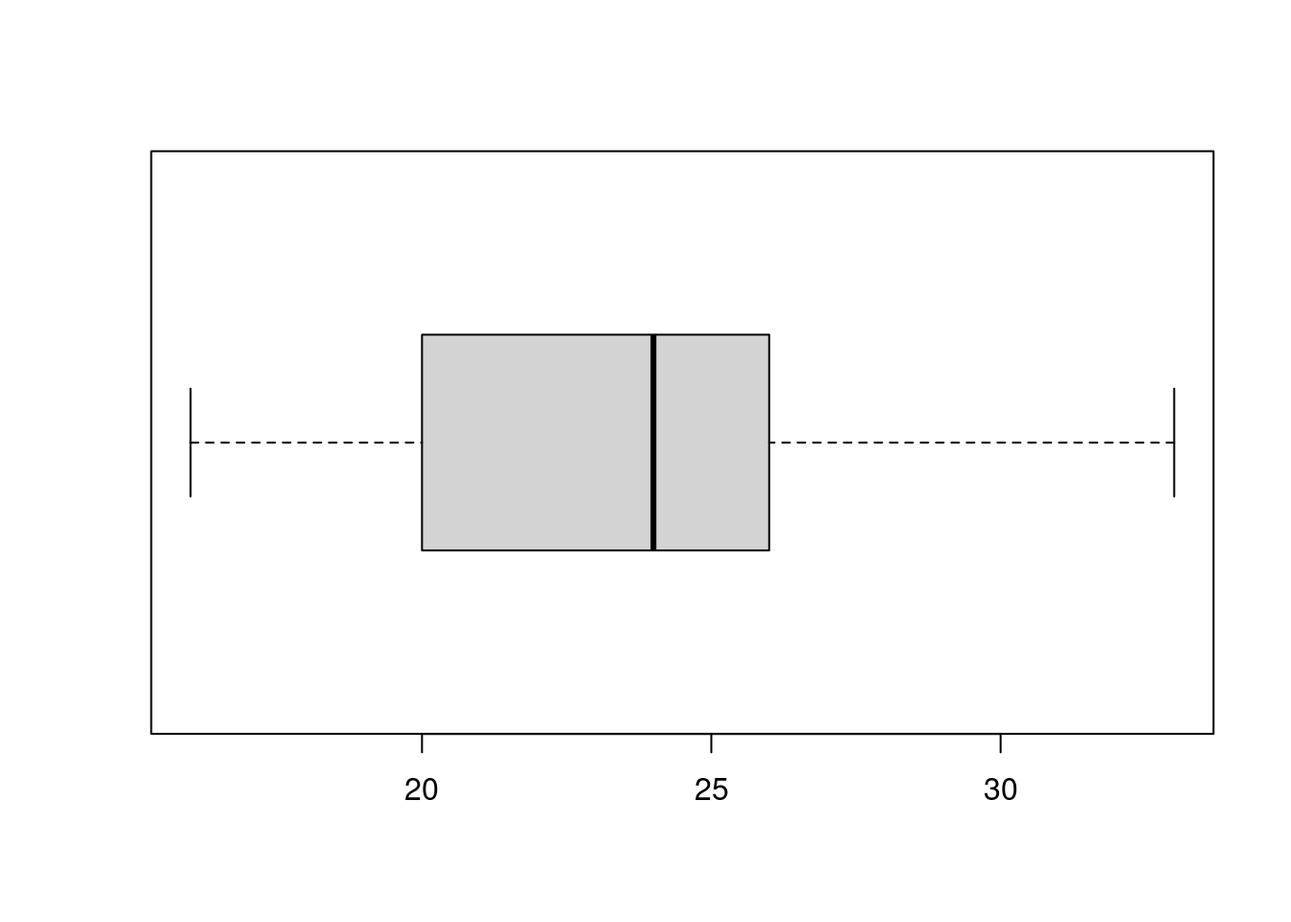
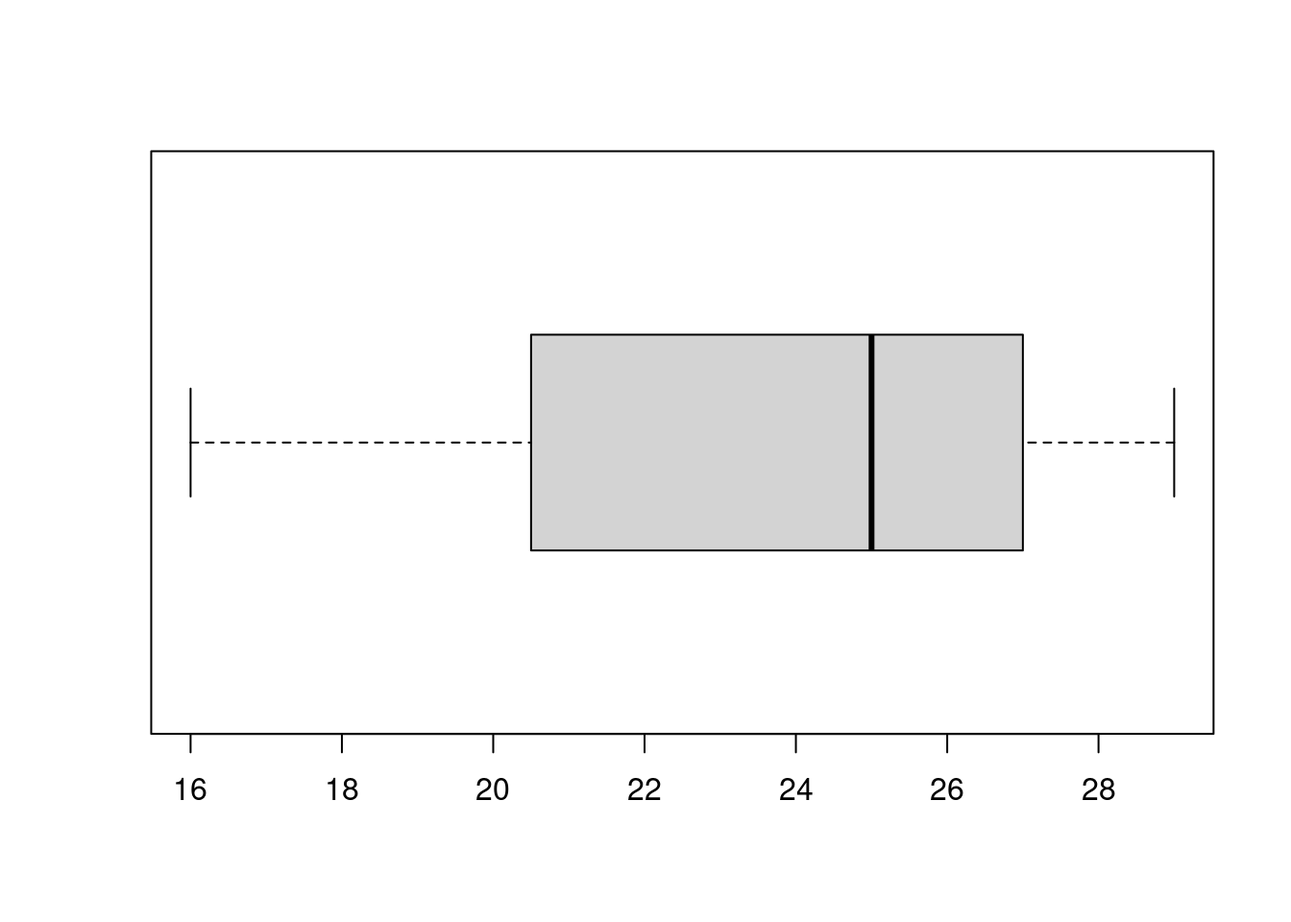
Updates to Chapter 3.

diff --git a/_book/what-is-statistics.html b/_book/what-is-statistics.html
@@ -24,7 +24,7 @@
 <meta name="author" content="Virgil U Pierce" />
 
 
-<meta name="date" content="2021-05-11" />
+<meta name="date" content="2021-05-13" />
 
   <meta name="viewport" content="width=device-width, initial-scale=1" />
   <meta name="apple-mobile-web-app-capable" content="yes" />
@@ -179,6 +179,23 @@ code span.wa { color: #60a0b0; font-weight: bold; font-style: italic; } /* Warni
 </ul></li>
 <li class="chapter" data-level="3.4" data-path="what-is-statistics.html"><a href="what-is-statistics.html#exploratory-versus-confirmatory-analysis"><i class="fa fa-check"></i><b>3.4</b> Exploratory versus Confirmatory Analysis</a></li>
 <li class="chapter" data-level="3.5" data-path="what-is-statistics.html"><a href="what-is-statistics.html#correlations-and-predictions"><i class="fa fa-check"></i><b>3.5</b> Correlations and Predictions</a></li>
+<li class="chapter" data-level="3.6" data-path="what-is-statistics.html"><a href="what-is-statistics.html#motivating-questions"><i class="fa fa-check"></i><b>3.6</b> Motivating Questions</a>
+<ul>
+<li class="chapter" data-level="3.6.1" data-path="what-is-statistics.html"><a href="what-is-statistics.html#engine-failure"><i class="fa fa-check"></i><b>3.6.1</b> Engine Failure</a></li>
+<li class="chapter" data-level="3.6.2" data-path="what-is-statistics.html"><a href="what-is-statistics.html#engine-failure-2"><i class="fa fa-check"></i><b>3.6.2</b> Engine Failure 2</a></li>
+<li class="chapter" data-level="3.6.3" data-path="what-is-statistics.html"><a href="what-is-statistics.html#many-engines-failure"><i class="fa fa-check"></i><b>3.6.3</b> Many Engines Failure</a></li>
+<li class="chapter" data-level="3.6.4" data-path="what-is-statistics.html"><a href="what-is-statistics.html#duplicate-birthdays"><i class="fa fa-check"></i><b>3.6.4</b> Duplicate Birthdays</a></li>
+<li class="chapter" data-level="3.6.5" data-path="what-is-statistics.html"><a href="what-is-statistics.html#birthday-tickets"><i class="fa fa-check"></i><b>3.6.5</b> Birthday Tickets</a></li>
+<li class="chapter" data-level="3.6.6" data-path="what-is-statistics.html"><a href="what-is-statistics.html#accidents"><i class="fa fa-check"></i><b>3.6.6</b> Accidents</a></li>
+<li class="chapter" data-level="3.6.7" data-path="what-is-statistics.html"><a href="what-is-statistics.html#budgets"><i class="fa fa-check"></i><b>3.6.7</b> Budgets</a></li>
+<li class="chapter" data-level="3.6.8" data-path="what-is-statistics.html"><a href="what-is-statistics.html#radioactive-decay"><i class="fa fa-check"></i><b>3.6.8</b> Radioactive Decay</a></li>
+<li class="chapter" data-level="3.6.9" data-path="what-is-statistics.html"><a href="what-is-statistics.html#cherry-blossoms"><i class="fa fa-check"></i><b>3.6.9</b> Cherry Blossoms</a></li>
+<li class="chapter" data-level="3.6.10" data-path="what-is-statistics.html"><a href="what-is-statistics.html#detecting-fraud-in-thc-labs"><i class="fa fa-check"></i><b>3.6.10</b> Detecting Fraud in THC Labs</a></li>
+<li class="chapter" data-level="3.6.11" data-path="what-is-statistics.html"><a href="what-is-statistics.html#how-many-locomotives"><i class="fa fa-check"></i><b>3.6.11</b> How Many Locomotives</a></li>
+<li class="chapter" data-level="3.6.12" data-path="what-is-statistics.html"><a href="what-is-statistics.html#median-house-prices"><i class="fa fa-check"></i><b>3.6.12</b> Median House Prices</a></li>
+<li class="chapter" data-level="3.6.13" data-path="what-is-statistics.html"><a href="what-is-statistics.html#healthcare-costs"><i class="fa fa-check"></i><b>3.6.13</b> Healthcare Costs</a></li>
+<li class="chapter" data-level="3.6.14" data-path="what-is-statistics.html"><a href="what-is-statistics.html#what-questions-do-you-have"><i class="fa fa-check"></i><b>3.6.14</b> What Questions Do You Have?</a></li>
+</ul></li>
 </ul></li>
 </ul>
 
@@ -232,26 +249,22 @@ code span.wa { color: #60a0b0; font-weight: bold; font-style: italic; } /* Warni
 <li>Cocalc provides an online interface that lets you issue R commands. It also includes a markdown language so you will be able to use it to prepare the documents for class. You can reach it here: <a href="https://cocalc.com/" class="uri">https://cocalc.com/</a> you will need to create an account.</li>
 <li>The university Apporto virtual machine: <a href="https://unco.apporto.com" class="uri">https://unco.apporto.com</a> has R studio installed. You can log in to it from any browser.</li>
 </ol>
-<p>If at all possible I would recomend 1. as with the software installed locally you will not need to be using your internet connection. However students using 2. in my classes have reported that it works well for them.</p>
+<p>If at all possible I would recommend 1. as with the software installed locally you will not need to be using your internet connection. However students using 2. in my classes have reported that it works well for them.</p>
 </div>
 <div id="open-rstudio" class="section level3" number="3.1.2">
 <h3><span class="header-section-number">3.1.2</span> Open Rstudio</h3>
-<p>To actually start using R, go ahead and open R studio. You can use R directly in the console (lower-left quadrant) however I recommend interacting with it in a Notebook as this provides you with:</p>
-<ul>
-<li>an easy way to modify inputs and execute them again.</li>
-<li>an easy way to save your work to return to it later or to copy and paste it to a new notebook.</li>
-<li>the ability to add markdown explaining what you are doing.</li>
-</ul>
-<p>The button on the top-left of the tool bar is for openning new documents, click the triangle next to it and choose “New Notebook” form the menu. RStudio helpfully inserts some information setting up your new notebook. You can adjust it as you wish. You can save the document from the file menu or using the toolbar buttons. RStudio has provided an example of how to put in Markdown language, and how to put in R commands. You execute a section of R commands but putting the cursor inside of it and pressing “Control+Enter” (or on a mac “Command+Enter”, if using Cocalc you will need to press “Shift+Enter”). Try it now on the <em>plot(cars)</em> command.</p>
+<p>To actually start using R, go ahead and open R studio. You can use R directly in the console (lower-left quadrant). Or you can open a notebook. Notebooks allow you to include markdown explanations around blocks of R code. I will show you an example in class. I typically use a notebook for my work, but the console is easier particularly if you are in a exploratory phase. The frame in the upper-right contains an overview of the variables that have been assigned values; and then the frame in the lower-right gives you an view of the files in your working directory, and if you issue plot commands in the console they will display here.</p>
+<p>The button on the top-left of the tool bar is for opening new documents, click the triangle next to it and choose “New Notebook” form the menu. RStudio helpfully inserts some information setting up your new notebook. You can adjust it as you wish. You can save the document from the file menu or using the toolbar buttons. RStudio has provided an example of how to put in Markdown language, and how to put in R commands. You execute a section of R commands but putting the cursor inside of it and pressing “Control+Enter” (or on a mac “Command+Enter”, if using Cocalc you will need to press “Shift+Enter”). Try it now on the <em>plot(cars)</em> command.</p>
+<p>Note that from our textbook you can copy commands to your computers clipboard which you can then paste and run in the console or paste into a notebook to run - you will have to inclose them in the code enviroment to run.</p>
 <div class="sourceCode" id="cb2"><pre class="sourceCode r"><code class="sourceCode r"><span id="cb2-1"><a href="what-is-statistics.html#cb2-1" aria-hidden="true" tabindex="-1"></a><span class="fu">plot</span>(cars)</span></code></pre></div>
 <p><img src="_main_files/figure-html/unnamed-chunk-2-1.png" width="672" /></p>
 </div>
 <div id="a-few-words-about-programming-languages" class="section level3" number="3.1.3">
 <h3><span class="header-section-number">3.1.3</span> A few words about programming languages</h3>
 <p>Before we continue with the <em>Probability and Statistics</em> I want to just add that learning programming languages is a powerful tool to help your students advance in their thinking about mathematics, one that I worry we do not spend enough time working with students on. At UNC one of my main goals for my tenure as School Director is to incorporate Python and R into the undergraduate mathematics curriculum wherever we can. A key part of learning a programming language, or more accurately, the only thing that has ever worked for me is having a problem I am interested in that needs solving. Statistics for myself, I hope for you by the end of this course, and for your students could be that problem that motivates learning some programming.</p>
-<p>Independently of all of that R is a great language to start with for the following reasons:</p>
+<p>Independent of all of that R is a great language to start with for the following reasons:</p>
 <ol style="list-style-type: decimal">
-<li>Because R is so fundamentally focused on statistics and visualizations of data, it is simpler and more compact than a general language.</li>
+<li>Because R is so focused on statistics and visualizations of data, it is simpler and more compact than a general language.</li>
 <li>R is human readable - you can usually read a statement outloud and you will know exactly what it is doing.</li>
 <li>R is free.</li>
 </ol>
@@ -268,7 +281,7 @@ While I am collecting this data you can reflect on this funny musing. I grew up 
 <span id="cb3-5"><a href="what-is-statistics.html#cb3-5" aria-hidden="true" tabindex="-1"></a><span class="co"># students &lt;- {} </span></span>
 <span id="cb3-6"><a href="what-is-statistics.html#cb3-6" aria-hidden="true" tabindex="-1"></a></span>
 <span id="cb3-7"><a href="what-is-statistics.html#cb3-7" aria-hidden="true" tabindex="-1"></a>students</span></code></pre></div>
-<pre><code>##  [1] 32 21 23 25 28 16 29 20 21 27 33 25 19 24 20 25 20 25 24 20</code></pre>
+<pre><code>##  [1] 18 25 20 21 24 23 21 28 27 25 28 16 27 26 20 27 26 18 29 27</code></pre>
 <p><em>R Notes</em>: lists in R are enclosed in <em>curly braces</em> and each member of the list is separated by a <em>semi-colon</em> or a space; note I think leaving the space is bad practice and recommend not using that feature. In this case our list is a collection of integers. Lists can more generally be numbers or strings or even lists of lists.</p>
 <p>Comments in commands start with <em>hash symbols</em>.</p>
 <p>Another syntax note: R uses both = and &lt;- for assignment though they have slightly different meanings. They both work as you would expect, however &lt;- has some nice positives in the detailed differences and it is worth getting into the habit of using it.</p>
@@ -278,11 +291,11 @@ While I am collecting this data you can reflect on this funny musing. I grew up 
 <p>To get started we can use <em>summary</em> to get an overview of what our list of student enrollments look like. Review the meaning of each of these.</p>
 <div class="sourceCode" id="cb5"><pre class="sourceCode r"><code class="sourceCode r"><span id="cb5-1"><a href="what-is-statistics.html#cb5-1" aria-hidden="true" tabindex="-1"></a><span class="fu">summary</span>(students)</span></code></pre></div>
 <pre><code>##    Min. 1st Qu.  Median    Mean 3rd Qu.    Max. 
-##   16.00   20.00   24.00   23.85   25.50   33.00</code></pre>
+##   16.00   20.75   25.00   23.80   27.00   29.00</code></pre>
 <p>Mean and Median are <em>measures of center</em>, while the quartiles are <em>measures of spread</em>. One measure of spread missing is the variance or its square root standard deviation:</p>
 <div class="sourceCode" id="cb7"><pre class="sourceCode r"><code class="sourceCode r"><span id="cb7-1"><a href="what-is-statistics.html#cb7-1" aria-hidden="true" tabindex="-1"></a><span class="fu">var</span>(students); <span class="fu">sqrt</span>(<span class="fu">var</span>(students))</span></code></pre></div>
-<pre><code>## [1] 19.50263</code></pre>
-<pre><code>## [1] 4.416178</code></pre>
+<pre><code>## [1] 15.22105</code></pre>
+<pre><code>## [1] 3.901417</code></pre>
 <p>The variance is computed by taking the sum of the square differences between the data and the mean and then dividing that by number of items minus one; we will explain why this is what we divide by later in class:
 <span class="math display">\[ S = \frac{1}{n-1} \sum_{j=1}^n (y_j - \bar{y} )^2 \]</span> where <span class="math inline">\(\bar{y}\)</span> is the mean of the sample made up of the <span class="math inline">\(\{ y_1, y_2, \dots, y_n \}\)</span>.</p>
 <p>In the code blocks below I will add some comments about what we are doing:</p>
@@ -292,17 +305,16 @@ While I am collecting this data you can reflect on this funny musing. I grew up 
 <span id="cb10-4"><a href="what-is-statistics.html#cb10-4" aria-hidden="true" tabindex="-1"></a></span>
 <span id="cb10-5"><a href="what-is-statistics.html#cb10-5" aria-hidden="true" tabindex="-1"></a><span class="co"># R can then do the arithmetic and when we combine a list of numbers with a single number and square it, it knows what we mean.</span></span>
 <span id="cb10-6"><a href="what-is-statistics.html#cb10-6" aria-hidden="true" tabindex="-1"></a>(students <span class="sc">-</span> ybar)<span class="sc">^</span><span class="dv">2</span></span></code></pre></div>
-<pre><code>##  [1] 66.4225  8.1225  0.7225  1.3225 17.2225 61.6225 26.5225 14.8225  8.1225
-## [10]  9.9225 83.7225  1.3225 23.5225  0.0225 14.8225  1.3225 14.8225  1.3225
-## [19]  0.0225 14.8225</code></pre>
+<pre><code>##  [1] 33.64  1.44 14.44  7.84  0.04  0.64  7.84 17.64 10.24  1.44 17.64 60.84
+## [13] 10.24  4.84 14.44 10.24  4.84 33.64 27.04 10.24</code></pre>
 <div class="sourceCode" id="cb12"><pre class="sourceCode r"><code class="sourceCode r"><span id="cb12-1"><a href="what-is-statistics.html#cb12-1" aria-hidden="true" tabindex="-1"></a><span class="co"># Then as we said, we sum over all of these and then divide by the number of them</span></span>
 <span id="cb12-2"><a href="what-is-statistics.html#cb12-2" aria-hidden="true" tabindex="-1"></a><span class="co"># minus 1</span></span>
 <span id="cb12-3"><a href="what-is-statistics.html#cb12-3" aria-hidden="true" tabindex="-1"></a></span>
 <span id="cb12-4"><a href="what-is-statistics.html#cb12-4" aria-hidden="true" tabindex="-1"></a><span class="fu">sum</span>( (students <span class="sc">-</span> ybar)<span class="sc">^</span><span class="dv">2</span> ) <span class="sc">/</span> ( <span class="fu">length</span>(students) <span class="sc">-</span> <span class="dv">1</span> )</span></code></pre></div>
-<pre><code>## [1] 19.50263</code></pre>
+<pre><code>## [1] 15.22105</code></pre>
 <p>Note why we compute variance in this way. We are trying to understand how far the data moves from the mean <span class="math inline">\(\bar{y}\)</span>. However we can’t just sum over the differences as that will just add up to zero:</p>
 <div class="sourceCode" id="cb14"><pre class="sourceCode r"><code class="sourceCode r"><span id="cb14-1"><a href="what-is-statistics.html#cb14-1" aria-hidden="true" tabindex="-1"></a><span class="fu">sum</span>(students <span class="sc">-</span> ybar )</span></code></pre></div>
-<pre><code>## [1] -2.842171e-14</code></pre>
+<pre><code>## [1] -1.421085e-14</code></pre>
 <p>We have choices though, we could sum over the absolute value and indeed that does give us a notion of spread. However the advantage of summing over the squares is that it brings in tools from Calculus that work with quadratic expressions but not with absolute value expressions. We then intend to take an average. For reasons we will justify later, it turns out the correct average to do is to divide by the size of our sample minus 1: <span class="math inline">\(n-1\)</span> is called the degrees of freedom (roughly computing <span class="math inline">\(\bar{y}\)</span> from the sample has used up one degree of freedom).</p>
 <p>Note the units on these two statistics: the variance is the average of the sum of the squares (by the number of degrees of freedom) so its units are the square of the units of our sample data (<em>students squared</em> in this case); and then the standard deviation is the square root of the variance and so has units of the original data (<em>students</em> in this case).</p>
 </div>
@@ -361,12 +373,12 @@ While I am collecting this data you can reflect on this funny musing. I grew up 
 ## #   Children &lt;dbl&gt;, Annual Income &lt;chr&gt;, City &lt;chr&gt;, State or Province &lt;chr&gt;,
 ## #   Country &lt;chr&gt;, Product Family &lt;chr&gt;, Product Department &lt;chr&gt;,
 ## #   Product Category &lt;chr&gt;, Units Sold &lt;dbl&gt;, Revenue &lt;dbl&gt;</code></pre>
-<p>A couple of notes are in order here before we continue: Note that this data set is made up of samples (rows) each of which has 10 features (columns). Some of the features are numerical - <em>Units Sold</em> and <em>Revenue</em>, some could be converted into numerical units if we are careful <em>Annual Income</em>, while others are purely categorical giving us just a description of the value. Also note there is a factor that looks numerical but for which it would probably be misleading to treat it as such.</p>
-<p>You will notice the note that the data set has ~14,049 rows: We can only deal with such datasets using a computer program. Without too much work we could find datasets that are too big for Excell and need to be analyzed using a software like R or Python.</p>
+<p>A couple of notes are in order here before we continue: Note that this data set is made up of samples (rows) each of which has 10 features (columns). Some of the features are numerical - <em>Units Sold</em> and <em>Revenue</em>, while others are purely categorical giving us just a description of the value. Also note there is a factor that looks numerical but for which it would probably be misleading to treat it as such. Note that some of the categorical variables have a natural order in the categories like <em>Annual Income</em> while others will not such as <em>State or Province</em>.</p>
+<p>You will notice the note that the data set has ~14,049 rows: We can only deal with such datasets using a computer program. Without too much work we could find datasets that are too big for Excell and need to be analyzed using a software like R or Python - one reason we teach our students how to use them in their undergraduate courses.</p>
 </div>
 <div id="list-of-features" class="section level3" number="3.3.3">
 <h3><span class="header-section-number">3.3.3</span> List of features</h3>
-<p>With a large data set it is helpful to list the the features we have:</p>
+<p>With a large data set it is helpful to list the features we have:</p>
 <div class="sourceCode" id="cb22"><pre class="sourceCode r"><code class="sourceCode r"><span id="cb22-1"><a href="what-is-statistics.html#cb22-1" aria-hidden="true" tabindex="-1"></a><span class="fu">colnames</span>(supermarket)</span></code></pre></div>
 <pre><code>##  [1] &quot;Transaction&quot;        &quot;Purchase Date&quot;      &quot;Customer ID&quot;       
 ##  [4] &quot;Gender&quot;             &quot;Marital Status&quot;     &quot;Homeowner&quot;         
@@ -423,7 +435,7 @@ While I am collecting this data you can reflect on this funny musing. I grew up 
 ## 
 ## $Revenue
 ## [1] &quot;numeric&quot;</code></pre>
-<p>Note I say that these are guesses. Depending on the spreadsheet the data came from these may or may not be correct. In particular it is not uncommon for numerical data to be incorrectly types as <em>character</em> data. R is effecient at cleaning data, however it is a step further than we want to go in this class, just be aware if you or your students start using data sets from the web you will often come upon this issue.</p>
+<p>Note I say that these are guesses. Depending on the spreadsheet the data came from these may or may not be correct. In particular it is not uncommon for numerical data to be incorrectly typed as <em>character</em> data. R is efficient at cleaning data, however it is a step further than we want to go in this class, just be aware if you or your students start using data sets from the web you will often come upon this issue.</p>
 </div>
 <div id="frequencies" class="section level3" number="3.3.4">
 <h3><span class="header-section-number">3.3.4</span> Frequencies</h3>
@@ -439,7 +451,7 @@ While I am collecting this data you can reflect on this funny musing. I grew up 
 ##        F    M
 ##   M 3602 3264
 ##   S 3568 3625</code></pre>
-<p>We can even do multi dimensional tables, though there is a limit to what makes sense:</p>
+<p>We can even do multi dimensional tables, though there is a limit to what makes sense. Can you interpret what the 190 in the upper left of this table means?</p>
 <div class="sourceCode" id="cb30"><pre class="sourceCode r"><code class="sourceCode r"><span id="cb30-1"><a href="what-is-statistics.html#cb30-1" aria-hidden="true" tabindex="-1"></a><span class="co"># Here to make this easier to read we are going to do the operation in two separate commands; </span></span>
 <span id="cb30-2"><a href="what-is-statistics.html#cb30-2" aria-hidden="true" tabindex="-1"></a><span class="co"># note the semi-colon indicating the end of the first command</span></span>
 <span id="cb30-3"><a href="what-is-statistics.html#cb30-3" aria-hidden="true" tabindex="-1"></a>table1 <span class="ot">&lt;-</span> <span class="fu">table</span>(supermarket<span class="sc">$</span><span class="st">`</span><span class="at">Marital Status</span><span class="st">`</span>, supermarket<span class="sc">$</span>Gender, supermarket<span class="sc">$</span><span class="st">`</span><span class="at">State or Province</span><span class="st">`</span>);</span>
@@ -462,15 +474,17 @@ While I am collecting this data you can reflect on this funny musing. I grew up 
 ##             F         M
 ##   M 0.2562060 0.2321644
 ##   S 0.2537876 0.2578420</code></pre>
+<p>Note that we break the procedure into two steps - one making the table and then one producing the proportions with the prop.table() function. The syntax item is in a notebook we need the semicolon. In the console you would just do the first line and then the second line as two separate commands.</p>
 </div>
 <div id="charts" class="section level3" number="3.3.6">
 <h3><span class="header-section-number">3.3.6</span> Charts</h3>
 <p>Visualizations are straightforward, a typical one would be a bar chart indicating visually the frequency counts:</p>
 <div class="sourceCode" id="cb34"><pre class="sourceCode r"><code class="sourceCode r"><span id="cb34-1"><a href="what-is-statistics.html#cb34-1" aria-hidden="true" tabindex="-1"></a><span class="co"># Note in this one the direction of the quotes matter</span></span>
-<span id="cb34-2"><a href="what-is-statistics.html#cb34-2" aria-hidden="true" tabindex="-1"></a><span class="fu">ggplot</span>(supermarket) <span class="sc">+</span> <span class="fu">geom_bar</span>(<span class="at">mapping =</span> <span class="fu">aes</span>(<span class="at">x=</span><span class="st">`</span><span class="at">State or Province</span><span class="st">`</span>)) <span class="sc">+</span> </span>
-<span id="cb34-3"><a href="what-is-statistics.html#cb34-3" aria-hidden="true" tabindex="-1"></a>  <span class="fu">theme</span>(<span class="at">axis.text.x=</span><span class="fu">element_text</span>(<span class="at">angle=</span><span class="dv">45</span>, <span class="at">hjust=</span><span class="dv">1</span>))</span></code></pre></div>
+<span id="cb34-2"><a href="what-is-statistics.html#cb34-2" aria-hidden="true" tabindex="-1"></a><span class="fu">ggplot</span>(supermarket) <span class="sc">+</span> </span>
+<span id="cb34-3"><a href="what-is-statistics.html#cb34-3" aria-hidden="true" tabindex="-1"></a>  <span class="fu">geom_bar</span>(<span class="at">mapping =</span> <span class="fu">aes</span>(<span class="at">x=</span><span class="st">`</span><span class="at">State or Province</span><span class="st">`</span>)) <span class="sc">+</span> </span>
+<span id="cb34-4"><a href="what-is-statistics.html#cb34-4" aria-hidden="true" tabindex="-1"></a>  <span class="fu">theme</span>(<span class="at">axis.text.x=</span><span class="fu">element_text</span>(<span class="at">angle=</span><span class="dv">45</span>, <span class="at">hjust=</span><span class="dv">1</span>))</span></code></pre></div>
 <p><img src="_main_files/figure-html/unnamed-chunk-19-1.png" width="672" /></p>
-<p>Note that the labels, colors, and positions can all be set via commands.</p>
+<p>Note that the labels, colors, and positions can all be set via commands. *ggplot** commands always have this structure, one command setting the dataframe to use, one command identifying what to draw, and then commands to change the theme. Using the same theme command for all of your plots in a project means they will all have identical formatting. R is built to make these figures look very nice and there are more options than we will go over - you can explore them with google if you like.</p>
 </div>
 </div>
 <div id="exploratory-versus-confirmatory-analysis" class="section level2" number="3.4">
@@ -501,13 +515,87 @@ While I am collecting this data you can reflect on this funny musing. I grew up 
 <p><img src="_main_files/figure-html/unnamed-chunk-21-1.png" width="672" /></p>
 <p>Not surprisingly, larger engines are less effecient <em>generally</em>. However the relationship is not exact - why not?</p>
 <p>Our model for this is going to be that the <em>displacement</em> is known exactly and then the fuel efficiency is given by: <span class="math display">\[ y - y_0 = k (x - x_0) + \mbox{Error} \]</span>
-Where the Error is a random variable encapsulating all of the other features (variables) in the car - its <em>mass</em>, <em>aerodynmaic features</em>, <em>turbo chargers</em>, <em>cargo capacity</em>, <em>transmission</em>, and on and on. It is likely we may never even know all of the variables that have an effect on the fuel efficiency and cause two cars with the same displacement to have different efficiencies.</p>
+Where the Error is a random variable encapsulating all of the other features (variables) in the car - its <em>mass</em>, <em>aerodynmaic features</em>, <em>turbo chargers</em>, <em>cargo capacity</em>, <em>transmission</em>, and on and on. It is likely we may never even know all of the variables that have an effect on the fuel efficiency and cause two cars with the same displacement to have different efficiencies and hence the reasonableness of thinking of this as some kind of randomness.</p>
 <p>Another possibility is that the relationship is not in fact linear.</p>
 <p>Finally. There may be a subclass of the data that does not fit with the rest. Note the set of six cars with significant displacements (greater than 5 liters) but with fuel efficiencies well
 above the linear trend. To explore this, we can add more variables to a scatter plot by using <em>color</em>, <em>shape</em>, and <em>size</em> attributes. Lets use color with the <em>class</em> variable in our data:</p>
 <div class="sourceCode" id="cb38"><pre class="sourceCode r"><code class="sourceCode r"><span id="cb38-1"><a href="what-is-statistics.html#cb38-1" aria-hidden="true" tabindex="-1"></a><span class="fu">ggplot</span>(<span class="at">data =</span> mpg) <span class="sc">+</span> <span class="fu">geom_point</span>(<span class="at">mapping =</span> <span class="fu">aes</span>( <span class="at">x =</span> displ, <span class="at">y =</span> hwy, <span class="at">color =</span> class ))</span></code></pre></div>
 <p><img src="_main_files/figure-html/unnamed-chunk-22-1.png" width="672" /></p>
+<p>And indeed we can now make a hypothesis about what is happening with five of those six vehicles. If we remove them from the problems set we would expect our linear model to do even better (by which we mean the Error terms should be smaller and more controllable).</p>
+</div>
+<div id="motivating-questions" class="section level2" number="3.6">
+<h2><span class="header-section-number">3.6</span> Motivating Questions</h2>
+<p>I want to end this first lesson with some motivating questions we will be spending our time on this semester. These are questions for which we do not yet have tools to answer but trying to answer them is going to lead us in the technology and tools we build.</p>
+<div id="engine-failure" class="section level3" number="3.6.1">
+<h3><span class="header-section-number">3.6.1</span> Engine Failure</h3>
+<p>An aircraft engine has a 0.1% chance of failing in any given flight-hour of operation. How many flight hours do we expect it to run before its first failure?</p>
+</div>
+<div id="engine-failure-2" class="section level3" number="3.6.2">
+<h3><span class="header-section-number">3.6.2</span> Engine Failure 2</h3>
+<p>We are testing a new aircraft engine so we run four of them continuously until they fail. They last 220, 300, 320, and 350 hours. How many flight-hours do we expect one of these engines to run?</p>
+</div>
+<div id="many-engines-failure" class="section level3" number="3.6.3">
+<h3><span class="header-section-number">3.6.3</span> Many Engines Failure</h3>
+<p>An airline is running 655 aircraft in an hour with the engine used above. How many engine failures do we expect to happen in that hour?</p>
+</div>
+<div id="duplicate-birthdays" class="section level3" number="3.6.4">
+<h3><span class="header-section-number">3.6.4</span> Duplicate Birthdays</h3>
+<p>You enter your classroom on the first day of the fall to a group of 25 students. How likely is it that two of them share the same birthday (day / month)?</p>
+</div>
+<div id="birthday-tickets" class="section level3" number="3.6.5">
+<h3><span class="header-section-number">3.6.5</span> Birthday Tickets</h3>
+<p>You stand at the door to an auditorium and as students enter they hand you a ticket with their birthday (day/month). How many students do you expect to have entered before you have your first duplicate?</p>
+</div>
+<div id="accidents" class="section level3" number="3.6.6">
+<h3><span class="header-section-number">3.6.6</span> Accidents</h3>
+<p>An intersection in Greeley, near my house, has on average 1.2 traffic accidents a month. The city, in an attempt to improve on the situation makes a change to the timing of the light. In the month following there are 3 accidents. Do we have evidence that the intersection is now less safe?</p>
+</div>
+<div id="budgets" class="section level3" number="3.6.7">
+<h3><span class="header-section-number">3.6.7</span> Budgets</h3>
+<p>The School of Mathematical Sciences spends on average $5,800 a year on copies. How much should we budget for copies for next year?</p>
+</div>
+<div id="radioactive-decay" class="section level3" number="3.6.8">
+<h3><span class="header-section-number">3.6.8</span> Radioactive Decay</h3>
+<p>The number of atoms of a radioactive isotope in a sample that are likely to decay in a small interval of time is proportional to the number of atoms in the sample. Cesium 137, a by product of some nuclear fission reactors, has a half life of 30 years. It decays, emitting a beta particle, into Barium 137 which has a half-life of just 2.6 minutes and decays emitting a gamma particle - this decay path is what makes Cesium 137 such a dangerous contaminant. What proportion of a sample of Cesium 137 released in an accident do we expect to still be present after 50 years?</p>
+</div>
+<div id="cherry-blossoms" class="section level3" number="3.6.9">
+<h3><span class="header-section-number">3.6.9</span> Cherry Blossoms</h3>
+<p>The Cherry Trees in Washington DC are a famous gift from the mayor Tokyo in 1914 aimed at improving the cooperation between the US and Japan. Recently they have become possibly evidence of a change in climate around DC. The last few peak blooms (the date at which 70% of the trees in DC are at full bloom) have been on: March 28, March 20, April 1, April 5, March 25, March 25, April 10, April 10, April 9, March 20, March 29, and March 31. Over the entire historical record peak bloom has on average occured on April 3. From the recent blooms, do we have evidence that the average date of peak bloom has changed?</p>
+</div>
+<div id="detecting-fraud-in-thc-labs" class="section level3" number="3.6.10">
+<h3><span class="header-section-number">3.6.10</span> Detecting Fraud in THC Labs</h3>
+<p>Something suspicious is happening at some labs in Washington state that test for THC concentrations in consumer sold marajuana. The distribution of concentrations appear to be normal except that there is a discontinuity in the distribution at 20% with a higher density of results just above 20% than just below 20%. Here is the histogram that was found:</p>
+<p><img src="Labs.png" alt="Histogram of THC Concentrations in suspended Washington Labs" width="300"/></p>
+<p>Whereas here is a distribution of test results from the largest lab in the sate:</p>
+<p><img src="goodLab.png" alt="Histogram of THC Concentrations in unsuspended Washington Labs" width="300"/></p>
+<p>Suppose that you have a set of results from a lab for concentrations of some samples. How would you go about deciding if they have manipulated the results?</p>
+<p>(If you would rather not think of this as a THC lab question - Volkswagon was caught doing something very similar with the effeciencies measurments of their TDI vehicles a few years ago).</p>
+<div id="detecting-fraud" class="section level4" number="3.6.10.1">
+<h4><span class="header-section-number">3.6.10.1</span> Detecting Fraud</h4>
+<p>I would consider building an entire course around this question alone.</p>
+</div>
+</div>
+<div id="how-many-locomotives" class="section level3" number="3.6.11">
+<h3><span class="header-section-number">3.6.11</span> How Many Locomotives</h3>
+<p>A train company numbers its locomotives sequentially 1, 2, 3, …. You happen to be standing at a station and you observe train number 65 go by. How many trains does the company own?</p>
+<div id="the-german-tank-problem" class="section level4" number="3.6.11.1">
+<h4><span class="header-section-number">3.6.11.1</span> The German Tank Problem</h4>
+<p>This is a baby example of the German Tank Problem from World War 2: The allies were collecting maintenance records and recovering damaged tanks which included serial numbers on engines and transmissions. From this data they attempted to estimate how many tanks were being produced in Germany.</p>
+</div>
+</div>
+<div id="median-house-prices" class="section level3" number="3.6.12">
+<h3><span class="header-section-number">3.6.12</span> Median House Prices</h3>
+<p>Redfin is reporting that the median price of a house in Denver over the last year is $540,000. To what extent is there evidence that something has changed in the Denver real estate market? What are our predictions about future prices?</p>
+</div>
+<div id="healthcare-costs" class="section level3" number="3.6.13">
+<h3><span class="header-section-number">3.6.13</span> Healthcare Costs</h3>
+<p>Healthcare costs in the US are made up of three broad categories: Hospitals, Physicians and Clinics, and Prescription Drugs. How are these three costs contributing to the healthcare expenses in the US. What are our predictions about future costs?</p>
+</div>
+<div id="what-questions-do-you-have" class="section level3" number="3.6.14">
+<h3><span class="header-section-number">3.6.14</span> What Questions Do You Have?</h3>
+<p>Because this is a course about data, we can look for data related to questions you have.</p>
 
+</div>
 </div>
 </div>
             </section>

diff --git a/_book/index.html b/_book/index.html
@@ -24,7 +24,7 @@
 <meta name="author" content="Virgil U Pierce" />
 
 
-<meta name="date" content="2021-05-11" />
+<meta name="date" content="2021-05-13" />
 
   <meta name="viewport" content="width=device-width, initial-scale=1" />
   <meta name="apple-mobile-web-app-capable" content="yes" />
@@ -168,12 +168,33 @@ code span.wa { color: #60a0b0; font-weight: bold; font-style: italic; } /* Warni
 <li class="chapter" data-level="3.2.1" data-path="what-is-statistics.html"><a href="what-is-statistics.html#histograms"><i class="fa fa-check"></i><b>3.2.1</b> Histograms</a></li>
 <li class="chapter" data-level="3.2.2" data-path="what-is-statistics.html"><a href="what-is-statistics.html#boxplot"><i class="fa fa-check"></i><b>3.2.2</b> BoxPlot</a></li>
 </ul></li>
-<li class="chapter" data-level="3.3" data-path="what-is-statistics.html"><a href="what-is-statistics.html#numerical-versus-categorical-data"><i class="fa fa-check"></i><b>3.3</b> Numerical versus Categorical Data</a>
+<li class="chapter" data-level="3.3" data-path="what-is-statistics.html"><a href="what-is-statistics.html#categorical-data-example"><i class="fa fa-check"></i><b>3.3</b> Categorical Data Example</a>
 <ul>
-<li class="chapter" data-level="3.3.1" data-path="what-is-statistics.html"><a href="what-is-statistics.html#list-of-features"><i class="fa fa-check"></i><b>3.3.1</b> List of features</a></li>
-<li class="chapter" data-level="3.3.2" data-path="what-is-statistics.html"><a href="what-is-statistics.html#frequencies"><i class="fa fa-check"></i><b>3.3.2</b> Frequencies</a></li>
-<li class="chapter" data-level="3.3.3" data-path="what-is-statistics.html"><a href="what-is-statistics.html#proportions"><i class="fa fa-check"></i><b>3.3.3</b> Proportions</a></li>
-<li class="chapter" data-level="3.3.4" data-path="what-is-statistics.html"><a href="what-is-statistics.html#charts"><i class="fa fa-check"></i><b>3.3.4</b> Charts</a></li>
+<li class="chapter" data-level="3.3.1" data-path="what-is-statistics.html"><a href="what-is-statistics.html#grades-1"><i class="fa fa-check"></i><b>3.3.1</b> Grades</a></li>
+<li class="chapter" data-level="3.3.2" data-path="what-is-statistics.html"><a href="what-is-statistics.html#example-of-categorical-data"><i class="fa fa-check"></i><b>3.3.2</b> Example of Categorical Data</a></li>
+<li class="chapter" data-level="3.3.3" data-path="what-is-statistics.html"><a href="what-is-statistics.html#list-of-features"><i class="fa fa-check"></i><b>3.3.3</b> List of features</a></li>
+<li class="chapter" data-level="3.3.4" data-path="what-is-statistics.html"><a href="what-is-statistics.html#frequencies"><i class="fa fa-check"></i><b>3.3.4</b> Frequencies</a></li>
+<li class="chapter" data-level="3.3.5" data-path="what-is-statistics.html"><a href="what-is-statistics.html#proportions"><i class="fa fa-check"></i><b>3.3.5</b> Proportions</a></li>
+<li class="chapter" data-level="3.3.6" data-path="what-is-statistics.html"><a href="what-is-statistics.html#charts"><i class="fa fa-check"></i><b>3.3.6</b> Charts</a></li>
+</ul></li>
+<li class="chapter" data-level="3.4" data-path="what-is-statistics.html"><a href="what-is-statistics.html#exploratory-versus-confirmatory-analysis"><i class="fa fa-check"></i><b>3.4</b> Exploratory versus Confirmatory Analysis</a></li>
+<li class="chapter" data-level="3.5" data-path="what-is-statistics.html"><a href="what-is-statistics.html#correlations-and-predictions"><i class="fa fa-check"></i><b>3.5</b> Correlations and Predictions</a></li>
+<li class="chapter" data-level="3.6" data-path="what-is-statistics.html"><a href="what-is-statistics.html#motivating-questions"><i class="fa fa-check"></i><b>3.6</b> Motivating Questions</a>
+<ul>
+<li class="chapter" data-level="3.6.1" data-path="what-is-statistics.html"><a href="what-is-statistics.html#engine-failure"><i class="fa fa-check"></i><b>3.6.1</b> Engine Failure</a></li>
+<li class="chapter" data-level="3.6.2" data-path="what-is-statistics.html"><a href="what-is-statistics.html#engine-failure-2"><i class="fa fa-check"></i><b>3.6.2</b> Engine Failure 2</a></li>
+<li class="chapter" data-level="3.6.3" data-path="what-is-statistics.html"><a href="what-is-statistics.html#many-engines-failure"><i class="fa fa-check"></i><b>3.6.3</b> Many Engines Failure</a></li>
+<li class="chapter" data-level="3.6.4" data-path="what-is-statistics.html"><a href="what-is-statistics.html#duplicate-birthdays"><i class="fa fa-check"></i><b>3.6.4</b> Duplicate Birthdays</a></li>
+<li class="chapter" data-level="3.6.5" data-path="what-is-statistics.html"><a href="what-is-statistics.html#birthday-tickets"><i class="fa fa-check"></i><b>3.6.5</b> Birthday Tickets</a></li>
+<li class="chapter" data-level="3.6.6" data-path="what-is-statistics.html"><a href="what-is-statistics.html#accidents"><i class="fa fa-check"></i><b>3.6.6</b> Accidents</a></li>
+<li class="chapter" data-level="3.6.7" data-path="what-is-statistics.html"><a href="what-is-statistics.html#budgets"><i class="fa fa-check"></i><b>3.6.7</b> Budgets</a></li>
+<li class="chapter" data-level="3.6.8" data-path="what-is-statistics.html"><a href="what-is-statistics.html#radioactive-decay"><i class="fa fa-check"></i><b>3.6.8</b> Radioactive Decay</a></li>
+<li class="chapter" data-level="3.6.9" data-path="what-is-statistics.html"><a href="what-is-statistics.html#cherry-blossoms"><i class="fa fa-check"></i><b>3.6.9</b> Cherry Blossoms</a></li>
+<li class="chapter" data-level="3.6.10" data-path="what-is-statistics.html"><a href="what-is-statistics.html#detecting-fraud-in-thc-labs"><i class="fa fa-check"></i><b>3.6.10</b> Detecting Fraud in THC Labs</a></li>
+<li class="chapter" data-level="3.6.11" data-path="what-is-statistics.html"><a href="what-is-statistics.html#how-many-locomotives"><i class="fa fa-check"></i><b>3.6.11</b> How Many Locomotives</a></li>
+<li class="chapter" data-level="3.6.12" data-path="what-is-statistics.html"><a href="what-is-statistics.html#median-house-prices"><i class="fa fa-check"></i><b>3.6.12</b> Median House Prices</a></li>
+<li class="chapter" data-level="3.6.13" data-path="what-is-statistics.html"><a href="what-is-statistics.html#healthcare-costs"><i class="fa fa-check"></i><b>3.6.13</b> Healthcare Costs</a></li>
+<li class="chapter" data-level="3.6.14" data-path="what-is-statistics.html"><a href="what-is-statistics.html#what-questions-do-you-have"><i class="fa fa-check"></i><b>3.6.14</b> What Questions Do You Have?</a></li>
 </ul></li>
 </ul></li>
 </ul>
@@ -196,7 +217,7 @@ code span.wa { color: #60a0b0; font-weight: bold; font-style: italic; } /* Warni
 <div id="header">
 <h1 class="title">MATH 550 - Applied Probability and Statistics</h1>
 <p class="author"><em>Virgil U Pierce</em></p>
-<p class="date" style="margin-top: 1.5em;"><em>2021-05-11</em></p>
+<p class="date" style="margin-top: 1.5em;"><em>2021-05-13</em></p>
 </div>
 <div id="introduction" class="section level1" number="1">
 <h1><span class="header-section-number">1</span> Introduction</h1>

diff --git a/_book/course-syllabus.html b/_book/course-syllabus.html
@@ -179,6 +179,23 @@ code span.wa { color: #60a0b0; font-weight: bold; font-style: italic; } /* Warni
 </ul></li>
 <li class="chapter" data-level="3.4" data-path="what-is-statistics.html"><a href="what-is-statistics.html#exploratory-versus-confirmatory-analysis"><i class="fa fa-check"></i><b>3.4</b> Exploratory versus Confirmatory Analysis</a></li>
 <li class="chapter" data-level="3.5" data-path="what-is-statistics.html"><a href="what-is-statistics.html#correlations-and-predictions"><i class="fa fa-check"></i><b>3.5</b> Correlations and Predictions</a></li>
+<li class="chapter" data-level="3.6" data-path="what-is-statistics.html"><a href="what-is-statistics.html#motivating-questions"><i class="fa fa-check"></i><b>3.6</b> Motivating Questions</a>
+<ul>
+<li class="chapter" data-level="3.6.1" data-path="what-is-statistics.html"><a href="what-is-statistics.html#engine-failure"><i class="fa fa-check"></i><b>3.6.1</b> Engine Failure</a></li>
+<li class="chapter" data-level="3.6.2" data-path="what-is-statistics.html"><a href="what-is-statistics.html#engine-failure-2"><i class="fa fa-check"></i><b>3.6.2</b> Engine Failure 2</a></li>
+<li class="chapter" data-level="3.6.3" data-path="what-is-statistics.html"><a href="what-is-statistics.html#many-engines-failure"><i class="fa fa-check"></i><b>3.6.3</b> Many Engines Failure</a></li>
+<li class="chapter" data-level="3.6.4" data-path="what-is-statistics.html"><a href="what-is-statistics.html#duplicate-birthdays"><i class="fa fa-check"></i><b>3.6.4</b> Duplicate Birthdays</a></li>
+<li class="chapter" data-level="3.6.5" data-path="what-is-statistics.html"><a href="what-is-statistics.html#birthday-tickets"><i class="fa fa-check"></i><b>3.6.5</b> Birthday Tickets</a></li>
+<li class="chapter" data-level="3.6.6" data-path="what-is-statistics.html"><a href="what-is-statistics.html#accidents"><i class="fa fa-check"></i><b>3.6.6</b> Accidents</a></li>
+<li class="chapter" data-level="3.6.7" data-path="what-is-statistics.html"><a href="what-is-statistics.html#budgets"><i class="fa fa-check"></i><b>3.6.7</b> Budgets</a></li>
+<li class="chapter" data-level="3.6.8" data-path="what-is-statistics.html"><a href="what-is-statistics.html#radioactive-decay"><i class="fa fa-check"></i><b>3.6.8</b> Radioactive Decay</a></li>
+<li class="chapter" data-level="3.6.9" data-path="what-is-statistics.html"><a href="what-is-statistics.html#cherry-blossoms"><i class="fa fa-check"></i><b>3.6.9</b> Cherry Blossoms</a></li>
+<li class="chapter" data-level="3.6.10" data-path="what-is-statistics.html"><a href="what-is-statistics.html#detecting-fraud-in-thc-labs"><i class="fa fa-check"></i><b>3.6.10</b> Detecting Fraud in THC Labs</a></li>
+<li class="chapter" data-level="3.6.11" data-path="what-is-statistics.html"><a href="what-is-statistics.html#how-many-locomotives"><i class="fa fa-check"></i><b>3.6.11</b> How Many Locomotives</a></li>
+<li class="chapter" data-level="3.6.12" data-path="what-is-statistics.html"><a href="what-is-statistics.html#median-house-prices"><i class="fa fa-check"></i><b>3.6.12</b> Median House Prices</a></li>
+<li class="chapter" data-level="3.6.13" data-path="what-is-statistics.html"><a href="what-is-statistics.html#healthcare-costs"><i class="fa fa-check"></i><b>3.6.13</b> Healthcare Costs</a></li>
+<li class="chapter" data-level="3.6.14" data-path="what-is-statistics.html"><a href="what-is-statistics.html#what-questions-do-you-have"><i class="fa fa-check"></i><b>3.6.14</b> What Questions Do You Have?</a></li>
+</ul></li>
 </ul></li>
 </ul>
 
